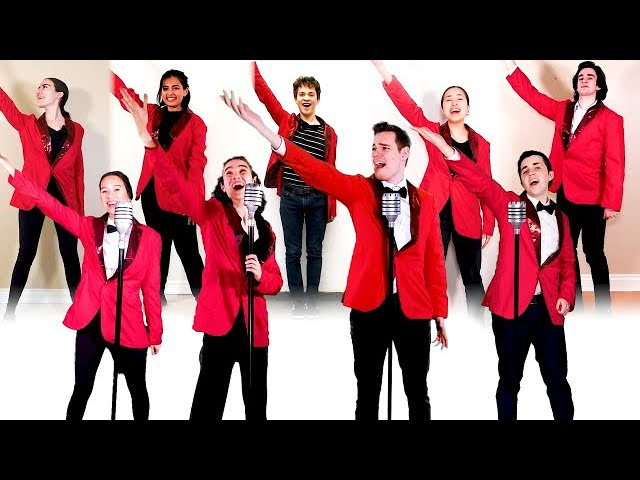
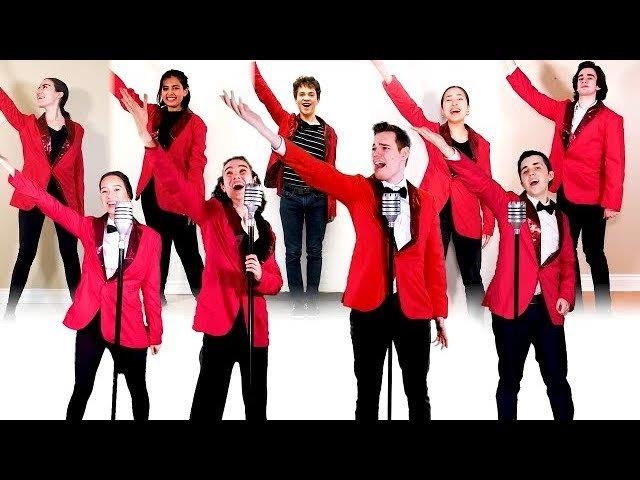
resized all imgs

diff --git a/index.html b/index.html
@@ -1,7 +1,7 @@
 <!DOCTYPE html>
 <html lang="en">
 <head>
-    <link rel="shortcut icon" type="x-icon" href="/img/favicon.png">
+    <link rel="shortcut icon" type="x-icon" href="/img/favicon.jpg">
     <meta charset="UTF-8">
     <meta http-equiv="X-UA-Compatible" content="IE=edge">
     <meta name="viewport" content="width=device-width, initial-scale=1.0">
@@ -24,7 +24,7 @@
   <section class="header">
     <nav id="navbar">
       <a href="index.html" class="logo">
-        <img src="img/2T3_logo.png"> 
+        <img src="img/2T3_logo.jpg"> 
       </a>
       <div class="title"><h1>Skule Nite 2T3</h1></div>
       <div class="nav-links" id="navLinks">
@@ -91,7 +91,7 @@
           <div class="button">
             <div id="themeDiv" style="display:none;" class="answer_list" > 
               <h3 style="font-size: 30px; font-family:'Alerta Stencil', sans-serif;"><i>🕵📷✨<u>1960s Secret Agents</u>✨📷🕵</i></h3>
-              <img src="/img/2T3_logo.png" style="max-width: 400px; height: auto; width: 100%;">
+              <img src="/img/2T3_logo.jpg" style="max-width: 400px; height: auto; width: 100%;">
               <p style="font-size: 20px; font-family: 'Oswald', sans-serif;">Think old comics, greasers, wacky gadgets and big personalities!</p>
             </div>
             <input type="button" class="hero-btn" name="answer" style="font-family: 'Oswald', sans-serif;" id="themeBtn" value="Click to Find Out!" onclick="hideButton(this)" />

diff --git a/about.html b/about.html
@@ -1,7 +1,7 @@
 <!DOCTYPE html>
 <html lang="en">
 <head>
-    <link rel="shortcut icon" type="x-icon" href="/img/favicon.png">
+    <link rel="shortcut icon" type="x-icon" href="/img/favicon.jpg">
     <meta charset="UTF-8">
     <meta http-equiv="X-UA-Compatible" content="IE=edge">
     <meta name="viewport" content="width=device-width, initial-scale=1.0">
@@ -25,7 +25,7 @@
   <section class="header">
     <nav id="navbar">
       <a href="index.html" class="logo">
-        <img src="img/2T3_logo.png"> 
+        <img src="img/2T3_logo.jpg"> 
       </a>
       <div class="title" ><h1>Skule Nite 2T3</h1></div>
       <div class="nav-links" id="navLinks">
@@ -87,9 +87,9 @@
                      
             </div>
             <div class="about-col">
-              <img class="slideshow" src="/img/about_pic_2.png">
-              <img class="slideshow" src="/img/about_pic_3.png">
-              <img class="slideshow" src="/img/about_pic_4.png">
+              <img class="slideshow" src="/img/about_pic_2.jpg">
+              <img class="slideshow" src="/img/about_pic_3.jpg">
+              <img class="slideshow" src="/img/about_pic_4.jpg">
               <img class="slideshow" src="/img/about_pic_7.jpg">
               <img class="slideshow" src="/img/about_pic_8.jpg">
               <img class="slideshow" src="/img/about_pic_9.jpg">

diff --git a/contact.html b/contact.html
@@ -1,7 +1,7 @@
 <!DOCTYPE html>
 <html lang="en">
 <head>
-    <link rel="shortcut icon" type="x-icon" href="/img/favicon.png">
+    <link rel="shortcut icon" type="x-icon" href="/img/favicon.jpg">
     <meta charset="UTF-8">
     <meta http-equiv="X-UA-Compatible" content="IE=edge">
     <meta name="viewport" content="width=device-width, initial-scale=1.0">
@@ -24,7 +24,7 @@
   <section class="header">
     <nav id="navbar">
       <a href="index.html" class="logo">
-        <img src="img/2T3_logo.png"> 
+        <img src="img/2T3_logo.jpg"> 
       </a>
       <div class="title"><h1>Skule Nite 2T3</h1></div>
       <div class="nav-links" id="navLinks">

diff --git a/apply.html b/apply.html
@@ -1,7 +1,7 @@
 <!DOCTYPE html>
 <html lang="en">
 <head>
-  <link rel="shortcut icon" type="x-icon" href="/img/favicon.png">
+  <link rel="shortcut icon" type="x-icon" href="/img/favicon.jpg">
     <meta charset="UTF-8">
     <meta http-equiv="X-UA-Compatible" content="IE=edge">
     <meta name="viewport" content="width=device-width, initial-scale=1.0">
@@ -24,7 +24,7 @@
   <section class="header">
     <nav id="navbar">
       <a href="index.html" class="logo">
-        <img src="img/2T3_logo.png"> 
+        <img src="img/2T3_logo.jpg"> 
       </a>
       <div class="title"><h1>Skule Nite 2T3</h1></div>
       <div class="nav-links" id="navLinks">
